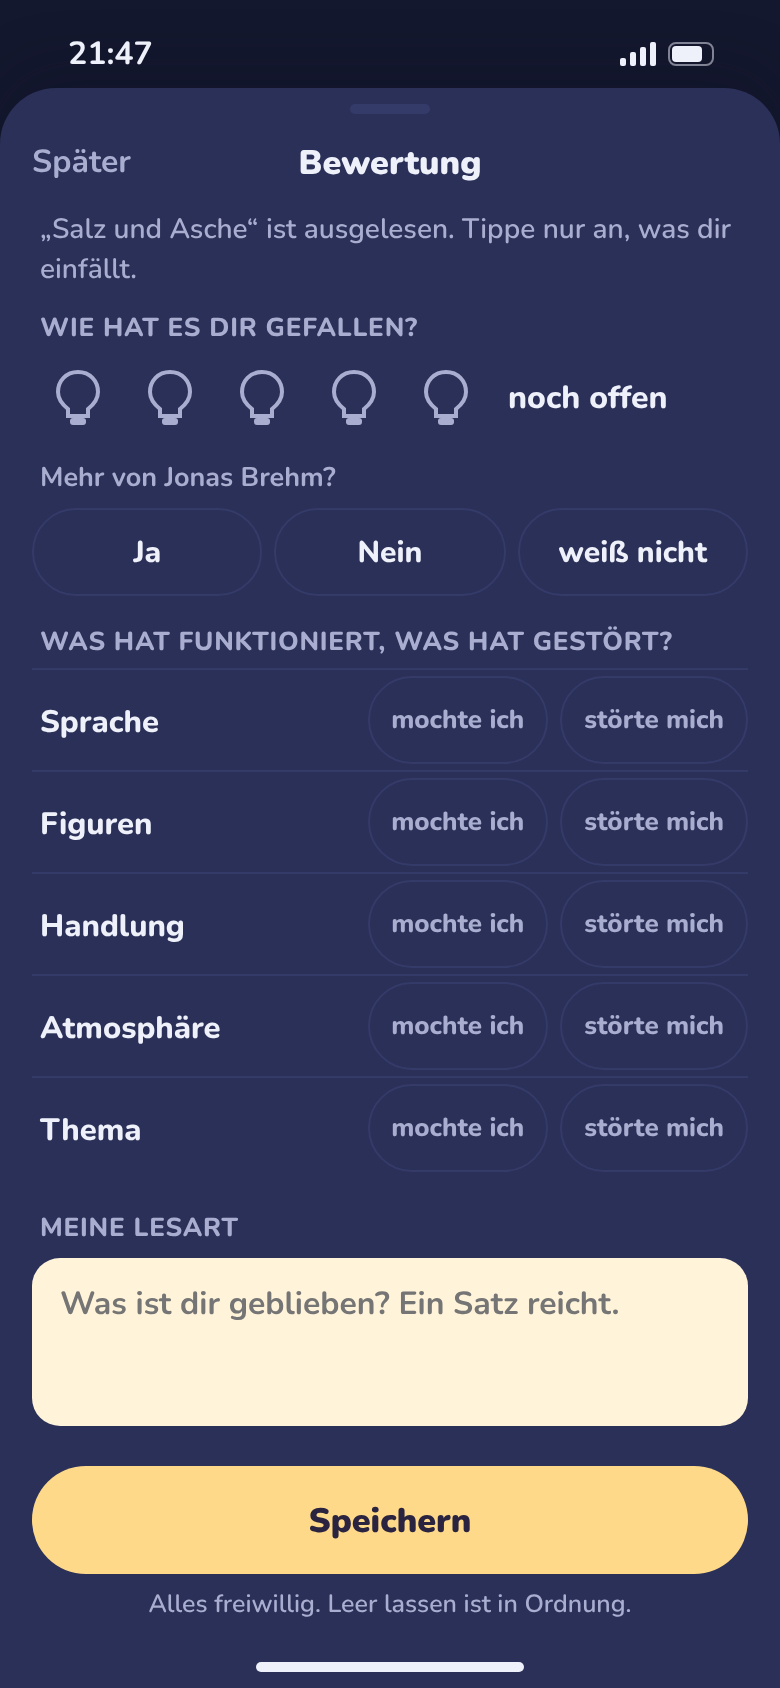
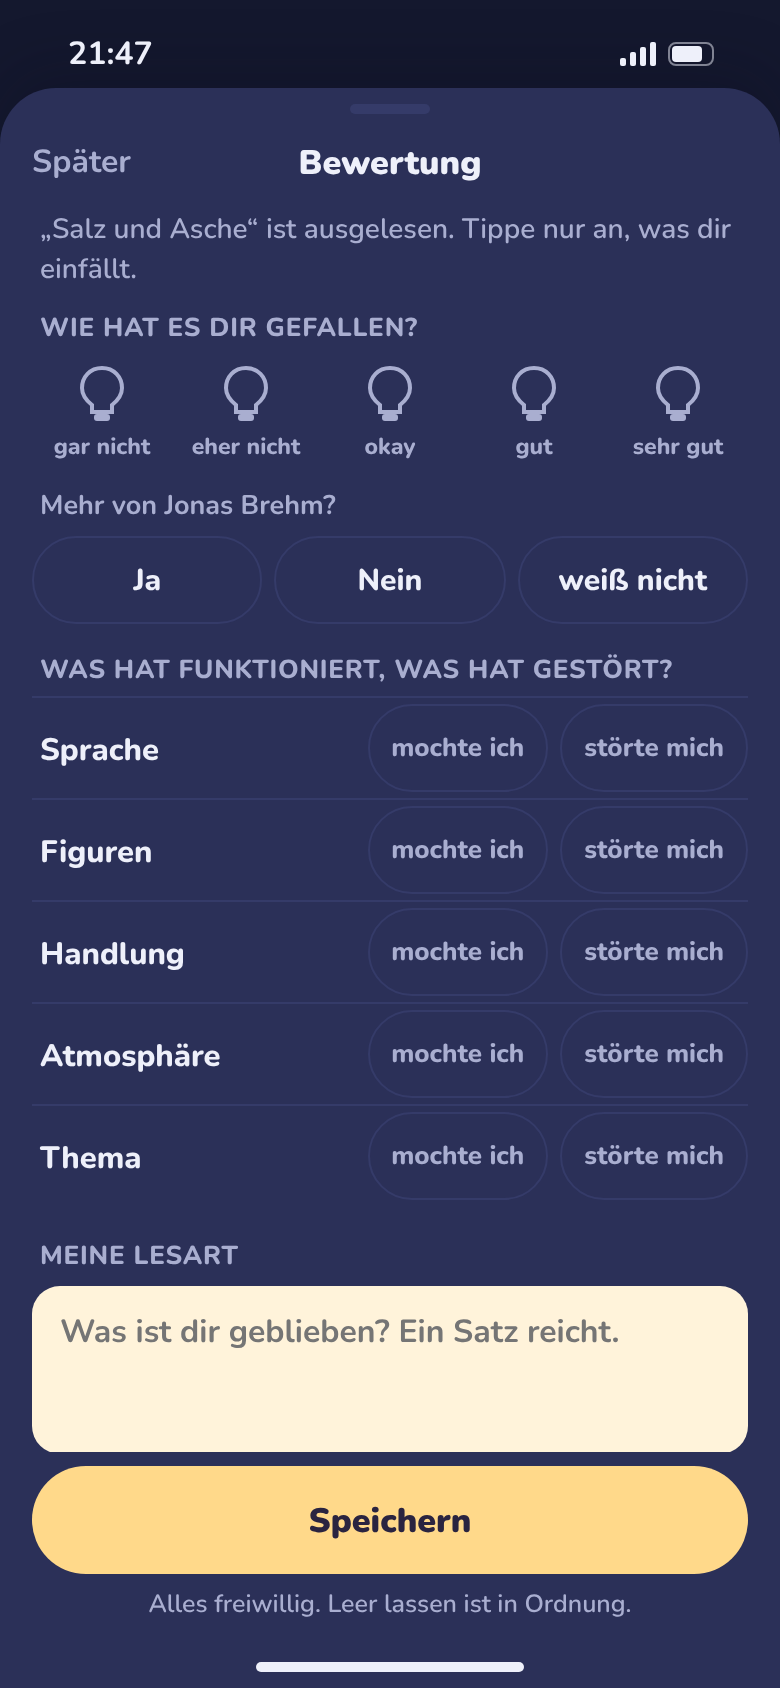
Prototyp: Nicht empfehlen, Seltener immer erreichbar, keine versteckten Angaben, Lichter-Stufen
Claude-Session: https://claude.ai/code/session_01XFBEjrJEUrXQYaFeZnVBdK

diff --git a/prototyp/designer/3-charakter/LichtAn.dc.html b/prototyp/designer/3-charakter/LichtAn.dc.html
@@ -535,9 +535,8 @@ input[type=search]::-webkit-search-cancel-button{display:none}
 <div style="position: absolute; top: 61px; left: 0; right: 0; bottom: 118px; overflow-y: auto; padding: 0 16px 16px 16px">
 <p style="margin: 0 4px 6px 4px; font-size: 14px; line-height: 20px; font-weight: 600; color: var(--mute)">{{rv.intro}}</p>
 <h3 style="margin: 10px 4px 2px 4px; font-size: 13px; font-weight: 800; color: var(--mute); letter-spacing: .03em">WIE HAT ES DIR GEFALLEN?</h3>
-<div role="radiogroup" aria-label="Wie hat es dir gefallen?" style="display: flex; align-items: center">
-<sc-for list="{{rv.stars}}" as="l" hint-placeholder-count="5"><button type="button" role="radio" aria-label="{{l.aria}}" aria-checked="{{l.checked}}" onClick="{{l.pick}}" style="width: 46px; height: 48px; border: none; background: none; cursor: pointer; display: flex; align-items: center; justify-content: center; padding: 0"><svg width="26" height="30" viewBox="0 0 26 30" aria-hidden="true"><path d="M13 2 C7 2 3 6.5 3 12 C3 16 5.5 18.5 8 20.5 L8 24 L18 24 L18 20.5 C20.5 18.5 23 16 23 12 C23 6.5 19 2 13 2 Z" style="{{l.bulb}}"></path><rect x="9" y="25" width="8" height="3.5" rx="1.5" style="fill: var(--mute)"></rect></svg></button></sc-for>
-<span style="margin-left: 8px; font-size: 16px; font-weight: 800">{{rv.word}}</span>
+<div role="radiogroup" aria-label="Wie hat es dir gefallen?" style="display: grid; grid-template-columns: repeat(5, 1fr); gap: 2px">
+<sc-for list="{{rv.stars}}" as="l" hint-placeholder-count="5"><button type="button" role="radio" aria-label="{{l.aria}}" aria-checked="{{l.checked}}" onClick="{{l.pick}}" style="{{l.style}}"><svg width="26" height="30" viewBox="0 0 26 30" aria-hidden="true"><path d="M13 2 C7 2 3 6.5 3 12 C3 16 5.5 18.5 8 20.5 L8 24 L18 24 L18 20.5 C20.5 18.5 23 16 23 12 C23 6.5 19 2 13 2 Z" style="{{l.bulb}}"></path><rect x="9" y="25" width="8" height="3.5" rx="1.5" style="fill: var(--mute)"></rect></svg><span style="{{l.labelStyle}}">{{l.label}}</span></button></sc-for>
 </div>
 <p style="margin: 6px 4px 6px 4px; font-size: 13.5px; font-weight: 700; color: var(--mute)">{{rv.againLabel}}</p>
 <div role="radiogroup" aria-label="{{rv.againLabel}}" style="display: flex; gap: 6px">
@@ -569,6 +568,19 @@ input[type=search]::-webkit-search-cancel-button{display:none}
 </sc-if>
 </sc-if>
 
+<sc-if value="{{rv.avoidHighlight}}" hint-placeholder-val="{{ false }}">
+<h3 style="margin: 16px 4px 4px 4px; font-size: 13px; font-weight: 800; color: var(--mute); letter-spacing: .03em">KÜNFTIG WENIGER DAVON?</h3>
+<p style="margin: 0 4px 8px 4px; font-size: 12.5px; line-height: 17px; font-weight: 600; color: var(--mute)"><b style="color: var(--ink)">Seltener</b> kommt weniger oft vor. <b style="color: var(--ink)">Nicht empfehlen</b> kommt gar nicht mehr vor.</p>
+<div role="list">
+<sc-for list="{{rv.avoid}}" as="a" hint-placeholder-count="4">
+<div role="listitem" style="display: flex; align-items: center; gap: 6px; min-height: 50px; border-top: 1px solid var(--line)">
+<span style="flex: 1; font-size: 15px; font-weight: 800; padding-left: 4px">{{a.label}}</span>
+<button type="button" aria-pressed="{{a.lessPressed}}" aria-label="{{a.lessAria}}" onClick="{{a.less}}" style="{{a.lessStyle}}">seltener</button>
+<button type="button" aria-pressed="{{a.neverPressed}}" aria-label="{{a.neverAria}}" onClick="{{a.never}}" style="{{a.neverStyle}}">nicht empfehlen</button>
+</div>
+</sc-for>
+</div>
+</sc-if>
 <h3 style="margin: 16px 4px 6px 4px; font-size: 13px; font-weight: 800; color: var(--mute); letter-spacing: .03em">{{rv.textLabel}}</h3>
 <textarea aria-label="{{rv.textLabel}}" onChange="{{rv.setText}}" placeholder="{{rv.textHint}}" style="width: 100%; box-sizing: border-box; height: 84px; border: none; border-radius: 14px; background: #FFF3DA; color: #2A2440; padding: 12px 14px; font-family: 'Nunito', sans-serif; font-size: 16px; line-height: 22px; font-weight: 700; resize: none" value="{{rv.text}}"></textarea>
 
@@ -576,13 +588,26 @@ input[type=search]::-webkit-search-cancel-button{display:none}
 <span style="display: flex; flex-direction: column; text-align: left"><span style="font-size: 15.5px; font-weight: 800">Genauer beschreiben</span><span style="font-size: 12.5px; font-weight: 600; color: var(--mute)">{{rv.moreHint}}</span></span>
 <svg width="16" height="10" viewBox="0 0 16 10" aria-hidden="true" style="{{rv.chevron}}"><path d="M2 2l6 6 6-6" fill="none" style="stroke: var(--acc)" stroke-width="2.4" stroke-linecap="round" stroke-linejoin="round"></path></svg>
 </button>
-<sc-if value="{{rv.moreVisible}}" hint-placeholder-val="{{ false }}">
+<sc-if value="{{rv.moreOpen}}" hint-placeholder-val="{{ false }}">
 <sc-for list="{{rv.groups}}" as="g" hint-placeholder-count="6">
 <h4 style="margin: 12px 4px 6px 4px; font-size: 13px; font-weight: 800; color: var(--mute)">{{g.label}}</h4>
 <div role="group" aria-label="{{g.label}}" style="display: flex; flex-wrap: wrap; gap: 6px">
 <sc-for list="{{g.opts}}" as="o" hint-placeholder-count="3"><button type="button" aria-pressed="{{o.pressed}}" onClick="{{o.pick}}" style="{{o.style}}">{{o.label}}</button></sc-for>
 </div>
 </sc-for>
+<sc-if value="{{rv.avoidInMore}}" hint-placeholder-val="{{ false }}">
+<h4 style="margin: 14px 4px 6px 4px; font-size: 13px; font-weight: 800; color: var(--mute)">Künftig weniger davon?</h4>
+<p style="margin: 0 4px 8px 4px; font-size: 12.5px; line-height: 17px; font-weight: 600; color: var(--mute)"><b style="color: var(--ink)">Seltener</b> kommt weniger oft vor. <b style="color: var(--ink)">Nicht empfehlen</b> kommt gar nicht mehr vor.</p>
+<div role="list">
+<sc-for list="{{rv.avoid}}" as="a" hint-placeholder-count="4">
+<div role="listitem" style="display: flex; align-items: center; gap: 6px; min-height: 50px; border-top: 1px solid var(--line)">
+<span style="flex: 1; font-size: 15px; font-weight: 800; padding-left: 4px">{{a.label}}</span>
+<button type="button" aria-pressed="{{a.lessPressed}}" aria-label="{{a.lessAria}}" onClick="{{a.less}}" style="{{a.lessStyle}}">seltener</button>
+<button type="button" aria-pressed="{{a.neverPressed}}" aria-label="{{a.neverAria}}" onClick="{{a.never}}" style="{{a.neverStyle}}">nicht empfehlen</button>
+</div>
+</sc-for>
+</div>
+</sc-if>
 </sc-if>
 </div>
 <div style="position: absolute; left: 16px; right: 16px; bottom: 34px; height: 84px; display: flex; flex-direction: column; justify-content: flex-end">
@@ -654,10 +679,10 @@ var STAR_WORDS = ['noch offen', 'gar nicht', 'eher nicht', 'okay', 'gut', 'sehr 
 var ASPECTS_ROMAN = ['Sprache', 'Figuren', 'Handlung', 'Atmosphäre', 'Thema'];
 var ASPECTS_SACH = ['Verständlichkeit', 'Tiefe', 'Thema'];
 var MORE_GROUPS = [
-  ['tempoMe', 'Tempo für mich', ['zu langsam', 'passend', 'zu schnell'], false],
-  ['less', 'Was möchtest du künftig seltener?', ['dieses Genre', 'dieses Thema', 'solche Länge', 'diesen Ton'], true]
+  ['tempoMe', 'Tempo für mich', ['zu langsam', 'passend', 'zu schnell'], false]
 ];
-function blankRating() { return { stars: 0, asp: {}, reasons: [], text: '', tempoBook: '', tempoMe: '', moods: [], level: '', again: '', less: [] }; }
+var AVOID_FEATURES = ['dieses Genre', 'dieses Thema', 'solche Länge', 'diesen Ton'];
+function blankRating() { return { stars: 0, asp: {}, reasons: [], text: '', tempoMe: '', again: '', avoid: {} }; }
 var COUNTS = { gelesen: 148, ungelesen: 61, wunsch: 23, abgebrochen: 6, regale: 5, verliehen: 2 };
 var VOLS = {
   gelesen: { name: 'Gelesen', sub: 'Zu Ende gelesen, mit deinen eigenen Worten.', search: 'In 148 gelesenen Büchern suchen' },
@@ -731,8 +756,8 @@ class Component extends DCLogic {
       dropped: [{ id: 'fluss', when: 'Mai 2026' }],
       finished: [], rate: null, rd: blankRating(), moreOpen: false,
       ratings: {
-        uhr: { stars: 5, asp: { Sprache: 'like', Figuren: 'like', Handlung: 'like', Atmosphäre: 'like' }, reasons: [], text: '', tempoBook: '', tempoMe: 'passend', moods: [], level: '', again: 'Ja', less: [] },
-        fluss: { stars: 2, asp: {}, reasons: ['Tempo', 'Zu lang'], text: 'Schöne Sätze, aber nach 80 Seiten ist noch nichts passiert.', tempoBook: '', tempoMe: 'zu langsam', moods: [], level: '', again: 'weiß nicht', less: [] }
+        uhr: { stars: 5, asp: { Sprache: 'like', Figuren: 'like', Handlung: 'like', Atmosphäre: 'like' }, reasons: [], text: '', tempoMe: 'passend', again: 'Ja', avoid: {} },
+        fluss: { stars: 2, asp: {}, reasons: ['Tempo', 'Zu lang'], text: 'Schöne Sätze, aber nach 80 Seiten ist noch nichts passiert.', tempoMe: 'zu langsam', again: 'weiß nicht', avoid: {} }
       },
       reasons: [], note: '', volNotice: '' };
   }
@@ -858,7 +883,10 @@ class Component extends DCLogic {
         if (rt.reasons.length) out.push({ k: 'Woran es lag', v: rt.reasons.join(', ') });
         if (rt.tempoMe) out.push({ k: 'Tempo für mich', v: rt.tempoMe });
         if (rt.again) out.push({ k: 'Mehr davon?', v: rt.again });
-        if (rt.less.length) out.push({ k: 'Seltener', v: rt.less.join(', ') });
+        var av = rt.avoid || {}, ls = [], nv = [];
+        Object.keys(av).forEach(function (f) { if (av[f] === 'less') ls.push(f); else if (av[f] === 'never') nv.push(f); });
+        if (ls.length) out.push({ k: 'Seltener', v: ls.join(', ') });
+        if (nv.length) out.push({ k: 'Nicht empfehlen', v: nv.join(', ') });
         if (b.vol === 'abgebrochen' && rt.text) out.push({ k: 'Eigene Worte', v: '„' + rt.text + '“' });
         return out;
       })(),
@@ -929,9 +957,13 @@ class Component extends DCLogic {
       var pill = function (on) { return 'min-height: 44px; padding: 0 13px; border-radius: 22px; cursor: pointer; font-size: 14px; font-weight: 800; border: 1.5px solid ' + (on ? 'var(--acc)' : 'var(--line)') + '; background: ' + (on ? 'var(--accBg)' : 'transparent') + '; color: ' + (on ? 'var(--acc)' : 'var(--ink)'); };
       var aspectBtn = function (on, bad) { return 'flex-shrink: 0; min-height: 44px; padding: 0 11px; border-radius: 22px; cursor: pointer; font-size: 13px; font-weight: 800; border: 1.5px solid ' + (on ? (bad ? 'var(--mute)' : 'var(--acc)') : 'var(--line)') + '; background: ' + (on ? (bad ? 'var(--field)' : 'var(--accBg)') : 'transparent') + '; color: ' + (on ? (bad ? 'var(--ink)' : 'var(--acc)') : 'var(--mute)'); };
       var tempoReason = isDrop && rd.reasons.indexOf('Tempo') >= 0;
-      var showLess = isDrop || (rd.stars > 0 && rd.stars <= 2);
-      var groupsVis = MORE_GROUPS.filter(function (g) { return (g[0] !== 'less' || showLess) && !(g[0] === 'tempoMe' && tempoReason); });
+      var highlight = isDrop || (rd.stars > 0 && rd.stars <= 2);
+      var groupsVis = MORE_GROUPS.filter(function (g) { return !(g[0] === 'tempoMe' && tempoReason); });
+      var avoidCount = Object.keys(rd.avoid).length;
       var filled = 0; groupsVis.forEach(function (g) { var v = rd[g[0]]; if (g[3] ? v.length : v) filled++; });
+      if (!highlight) filled += avoidCount;
+      var moreTotal = groupsVis.length + (highlight ? 0 : 1);
+      var avoidBtn = function (on, never) { return 'flex-shrink: 0; min-height: 44px; padding: 0 10px; border-radius: 22px; cursor: pointer; font-size: 12.5px; font-weight: 800; border: 1.5px solid ' + (on ? (never ? 'var(--ink)' : 'var(--acc)') : 'var(--line)') + '; background: ' + (on ? (never ? 'var(--field)' : 'var(--accBg)') : 'transparent') + '; color: ' + (on ? (never ? 'var(--ink)' : 'var(--acc)') : 'var(--mute)'); };
       var who = (bk.author || '').split(' ').slice(-1)[0];
       return {
         isRead: !isDrop, isDrop: isDrop,
@@ -942,18 +974,29 @@ class Component extends DCLogic {
         showTempoDetail: tempoReason,
         tempoDetail: ['zu langsam', 'zu schnell'].map(function (o) { var on = rd.tempoMe === o; return { label: o, checked: on ? 'true' : 'false', style: pill(on), pick: function () { upd({ tempoMe: on ? '' : o }); } }; }),
         moreVisible: s.moreOpen && groupsVis.length > 0,
-        stars: [1, 2, 3, 4, 5].map(function (i) { return { aria: i + ' von 5, ' + STAR_WORDS[i], checked: rd.stars === i ? 'true' : 'false', bulb: i <= rd.stars ? 'fill: var(--bulb)' : 'fill: none; stroke: var(--mute); stroke-width: 2', pick: function () { upd({ stars: rd.stars === i ? 0 : i }); } }; }),
+        stars: [1, 2, 3, 4, 5].map(function (i) { return { aria: i + ' von 5, ' + STAR_WORDS[i], label: STAR_WORDS[i], checked: rd.stars === i ? 'true' : 'false', bulb: i <= rd.stars ? 'fill: var(--bulb)' : 'fill: none; stroke: var(--mute); stroke-width: 2',
+          style: 'min-height: 62px; border: none; border-radius: 14px; background: ' + (rd.stars === i ? 'var(--accBg)' : 'none') + '; cursor: pointer; display: flex; flex-direction: column; align-items: center; justify-content: center; gap: 3px; padding: 4px 0',
+          labelStyle: 'font-size: 11.5px; font-weight: 800; white-space: nowrap; color: ' + (rd.stars === i ? 'var(--acc)' : 'var(--mute)'),
+          pick: function () { upd({ stars: rd.stars === i ? 0 : i }); } }; }),
+        avoidHighlight: highlight, avoidInMore: !highlight,
+        avoid: AVOID_FEATURES.map(function (f) {
+          var v = rd.avoid[f] || '';
+          var set = function (val) { var m = Object.assign({}, rd.avoid); if (m[f] === val) delete m[f]; else m[f] = val; upd({ avoid: m }); };
+          return { label: f.charAt(0).toUpperCase() + f.slice(1), lessPressed: v === 'less' ? 'true' : 'false', neverPressed: v === 'never' ? 'true' : 'false',
+            lessAria: f + ': seltener', neverAria: f + ': nicht empfehlen', lessStyle: avoidBtn(v === 'less', false), neverStyle: avoidBtn(v === 'never', true),
+            less: function () { set('less'); }, never: function () { set('never'); } };
+        }),
         aspects: (bk.sach ? ASPECTS_SACH : ASPECTS_ROMAN).map(function (a) {
           var v = rd.asp[a] || '';
           var set = function (val) { var m = Object.assign({}, rd.asp); if (m[a] === val) delete m[a]; else m[a] = val; upd({ asp: m }); };
           return { label: a, likePressed: v === 'like' ? 'true' : 'false', dislikePressed: v === 'dislike' ? 'true' : 'false', likeAria: a + ': mochte ich', dislikeAria: a + ': störte mich',
             likeStyle: aspectBtn(v === 'like', false), dislikeStyle: aspectBtn(v === 'dislike', true), like: function () { set('like'); }, dislike: function () { set('dislike'); } };
         }),
-        reasons: DROP_REASONS.map(function (r) { var on = rd.reasons.indexOf(r) >= 0; return { label: r, pressed: on ? 'true' : 'false', style: pill(on), toggle: function () { var x = rd.reasons.slice(); var k = x.indexOf(r); if (k >= 0) x.splice(k, 1); else x.push(r); upd({ reasons: x }); } }; }),
+        reasons: DROP_REASONS.map(function (r) { var on = rd.reasons.indexOf(r) >= 0; return { label: r, pressed: on ? 'true' : 'false', style: pill(on), toggle: function () { var x = rd.reasons.slice(); var k = x.indexOf(r); var p = {}; if (k >= 0) { x.splice(k, 1); if (r === 'Tempo') p.tempoMe = ''; } else x.push(r); p.reasons = x; upd(p); } }; }),
         textLabel: isDrop ? 'EIGENE WORTE' : 'MEINE LESART', textHint: isDrop ? 'Was du dir merken möchtest (freiwillig)' : 'Was ist dir geblieben? Ein Satz reicht.', text: rd.text,
         setText: function (e) { upd({ text: e.target.value }); },
         moreOpen: s.moreOpen, moreExpanded: s.moreOpen ? 'true' : 'false', toggleMore: function () { self.setState({ moreOpen: !s.moreOpen }); },
-        moreHint: filled ? filled + ' von ' + groupsVis.length + ' angegeben' : groupsVis.map(function (g) { return g[1]; }).join(', ').replace('Was möchtest du künftig seltener?', 'was seltener'),
+        moreHint: filled ? (filled === 1 ? '1 Angabe' : filled + ' Angaben') : (highlight ? (groupsVis.length ? 'Tempo für mich' : 'nichts weiter') : 'Tempo für mich, künftig weniger davon'),
         chevron: 'transition: transform .15s; transform: rotate(' + (s.moreOpen ? 180 : 0) + 'deg)',
         groups: groupsVis.map(function (g) {
           return { label: g[1], opts: g[2].map(function (o) {
@@ -963,7 +1006,8 @@ class Component extends DCLogic {
         }),
         saveLabel: R0.kind === 'drop' ? 'Bei Seite ' + (s.pages[R0.id] || 0) + ' abbrechen' : 'Speichern',
         save: function () {
-          var r = Object.assign({}, s.ratings); r[R0.id] = rd;
+          var clean = Object.assign({}, rd, { asp: isDrop ? {} : rd.asp, reasons: isDrop ? rd.reasons : [] });
+          var r = Object.assign({}, s.ratings); r[R0.id] = clean;
           var patch = { ratings: r, sheet: null, rate: null };
           if (R0.kind === 'drop') { patch.active = act.filter(function (x) { return x !== R0.id; }); patch.paused = s.paused.filter(function (x) { return x.id !== R0.id; }); patch.dropped = s.dropped.concat([{ id: R0.id, when: 'Oktober 2026' }]); patch.saved = 'Abgebrochen bei Seite ' + (s.pages[R0.id] || 0) + '.'; }
           else if (R0.kind === 'read') patch.saved = 'Ausgelesen und bewertet.';

diff --git a/prototyp/designer/3-charakter/KONZEPT.md b/prototyp/designer/3-charakter/KONZEPT.md
@@ -251,3 +251,12 @@ Grundlage: ENTSCHEIDUNGSVORLAGE-USP3.md, Abschnitte 2 und 8. Screens in `screens
 2. Soll „Seltener“ nur bei niedrigem Gefallen oder Abbruch erscheinen?
 3. Gehören Tempo des Buchs und Stimmung in den Katalog statt in die Bewertung?
 - **Entschieden (24.10.2026), umgesetzt:** „Mehr von [Person]?“ steht direkt unter dem Gefallen und wird mit einem Tipp beantwortet: Ja / Nein / weiß nicht. „Genauer beschreiben“ enthält nur noch „Tempo für mich“. „Seltener“ erscheint dort nur bei 1–2 Lichtern oder beim Abbruch. Tempo des Buchs, Stimmung und Anspruch sind entfallen und gehören in den Katalog. Beim Abbruchgrund „Tempo“ erscheint direkt darunter „Tempo war … zu langsam / zu schnell“. „Tempo für mich“ unter „Genauer“ ist dann ausgeblendet, damit nichts doppelt gefragt wird. Screens in screens5/ neu erzeugt.
+- **Nachtrag 2 (externe Prüfung), umgesetzt:**
+  - Unter jedem Licht steht die Stufe: gar nicht, eher nicht, okay, gut, sehr gut.
+  - Neu ist „Künftig weniger davon?“: Genre, Thema, Länge, Ton, je mit zwei getrennten Knöpfen „seltener“ und „nicht empfehlen“, dazu eine kurze Erklärung, dass „seltener“ nur senkt und „nicht empfehlen“ ausschließt. Das ist bei 1–2 Lichtern und beim Abbruch hervorgehoben, sonst steht es unter „Genauer beschreiben“; die zugeklappte Zeile zeigt die Zahl der Angaben.
+  - Gespeichert wird nur Sichtbares: Wer „Tempo“ abwählt, löscht auch „zu langsam/zu schnell“. Gründe werden nur beim Abbruch gespeichert, Aspekte nur beim gelesenen Buch.
+  - Geprüfte Fälle (screens5/):
+    - 10b–10e: 2 Lichter, „seltener“, dann 5 Lichter. Die Angabe bleibt unter „Genauer“ sichtbar und wird gespeichert.
+    - 12–12c: „Tempo“ an, „zu langsam“, „Tempo“ ab. Die Angabe ist weg und taucht beim erneuten Anwählen nicht wieder auf.
+    - 13–14: „nicht empfehlen“ gespeichert und auf der Buchseite gezeigt.
+  - Die 10 Sekunden stammen aus internem Durchspielen; ob es für echte Leser schnell und verständlich ist, muss ein Test zeigen.
